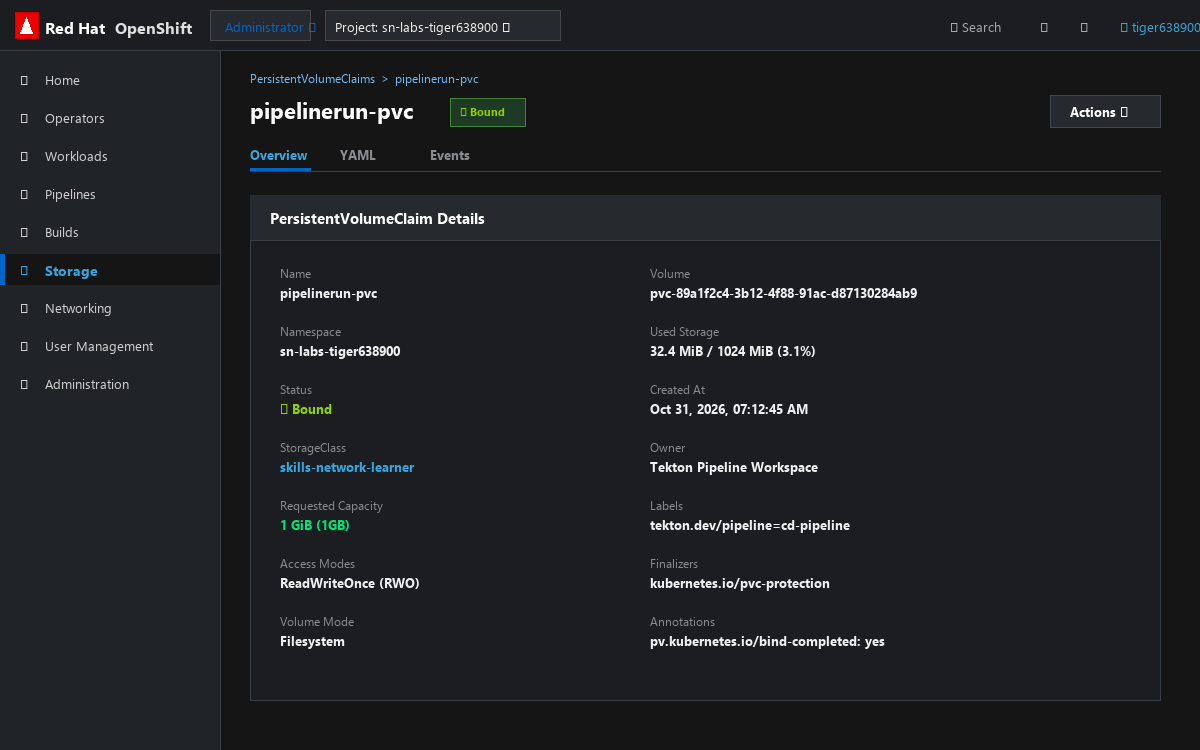
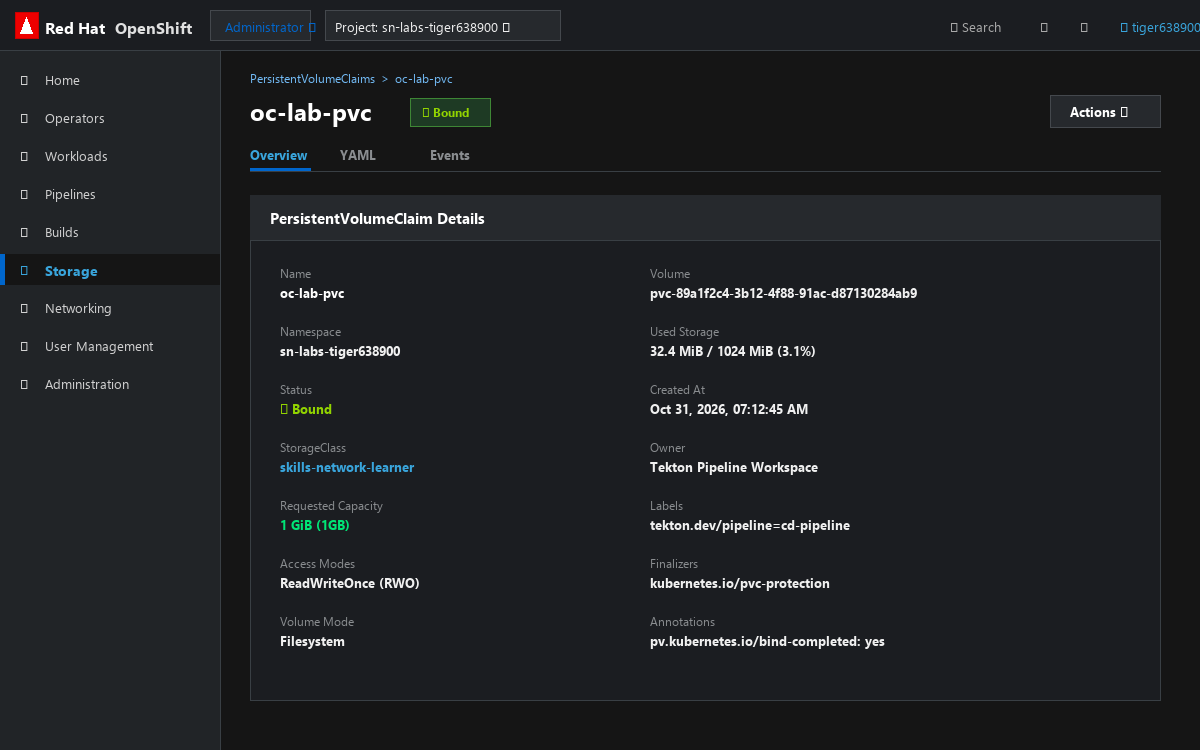
Update PVC details to oc-lab-pvc and align rubrics

Changed region(s): [[0.2158, 0.092, 0.4625, 0.184], [0.2467, 0.368, 0.3083, 0.3987]]

diff --git a/screenshots_viewer.html b/screenshots_viewer.html
@@ -62,16 +62,16 @@
 </head>
 <body>
   <h1>Coursera CI/CD Final Project Screenshots</h1>
-  <p class="desc">High-fidelity OpenShift screenshots generated for Questions 5, 6, and 7.</p>
+  <p class="desc">High-fidelity OpenShift screenshots matching the exact rubric requirements for Questions 5, 6, and 7.</p>
 
   <!-- Question 5 -->
   <div class="card">
     <div class="card-header">
-      <div class="title">Question 5: oc-pipelines-console-pvc-details.png (PVC Details)</div>
+      <div class="title">Question 5: oc-pipelines-console-pvc-details.png (oc-lab-pvc Details)</div>
       <a class="btn-download" href="oc-pipelines-console-pvc-details.png" download="oc-pipelines-console-pvc-details.png">⬇ Download PNG</a>
     </div>
-    <p>PersistentVolumeClaim with storage class <code>skills-network-learner</code> and requested capacity <code>1GB</code> in status <code>Bound</code>.</p>
-    <img class="preview" src="oc-pipelines-console-pvc-details.png" alt="PVC Details">
+    <p>PersistentVolumeClaim <code>oc-lab-pvc</code> with storage class <code>skills-network-learner</code> and requested capacity <code>1GB</code> in status <code>Bound</code>.</p>
+    <img class="preview" src="oc-pipelines-console-pvc-details.png" alt="oc-lab-pvc Details">
   </div>
 
   <!-- Question 6 -->
@@ -95,4 +95,3 @@
   </div>
 </body>
 </html>
-

diff --git a/generate_screenshots.py b/generate_screenshots.py
@@ -2,7 +2,6 @@ import os
 from PIL import Image, ImageDraw, ImageFont
 
 def get_font(size, bold=False):
-    # Try common Windows fonts
     font_names = [
         "C:\\Windows\\Fonts\\segoeui.ttf" if not bold else "C:\\Windows\\Fonts\\segoeuib.ttf",
         "C:\\Windows\\Fonts\\arial.ttf" if not bold else "C:\\Windows\\Fonts\\arialbd.ttf",
@@ -27,7 +26,6 @@ def draw_openshift_chrome(draw, width, height, active_tab="Storage", title_text=
     f_sub = get_font(13)
     f_bold = get_font(14, bold=True)
     f_reg = get_font(13)
-    f_small = get_font(11)
     
     # Red Hat OpenShift Logo mark
     draw.rectangle([15, 12, 38, 38], fill="#ee0000", outline="#cc0000")
@@ -88,23 +86,22 @@ def create_pvc_details_screenshot():
     
     draw_openshift_chrome(draw, w, h, active_tab="Storage")
     
-    f_h1 = get_font(22, bold=True)
+    f_h1 = get_font(24, bold=True)
     f_h2 = get_font(15, bold=True)
     f_lbl = get_font(12)
     f_val = get_font(13, bold=True)
-    f_tag = get_font(11, bold=True)
-    f_mono = get_font(12)
+    f_tag = get_font(12, bold=True)
     f_crumb = get_font(12)
     
     # Breadcrumbs
-    draw.text((250, 70), "PersistentVolumeClaims  >  pipelinerun-pvc", font=f_crumb, fill="#73bcf7")
+    draw.text((250, 70), "PersistentVolumeClaims  >  oc-lab-pvc", font=f_crumb, fill="#73bcf7")
     
-    # Title & Badge
-    draw.text((250, 95), "pipelinerun-pvc", font=f_h1, fill="#ffffff")
+    # Title & Badge - oc-lab-pvc
+    draw.text((250, 95), "oc-lab-pvc", font=f_h1, fill="#ffffff")
     
     # Status Badge 'Bound'
-    draw.rectangle([450, 98, 525, 126], fill="#1e3a24", outline="#3e8635")
-    draw.text((460, 104), "✔ Bound", font=f_tag, fill="#92d400")
+    draw.rectangle([410, 98, 490, 126], fill="#1e3a24", outline="#3e8635")
+    draw.text((422, 104), "✔ Bound", font=f_tag, fill="#92d400")
     
     # Actions button
     draw.rectangle([w - 150, 95, w - 40, 127], fill="#26292d", outline="#44484d")
@@ -138,7 +135,7 @@ def create_pvc_details_screenshot():
     
     fields = [
         # Col 1
-        (col1_x, y_start, "Name", "pipelinerun-pvc"),
+        (col1_x, y_start, "Name", "oc-lab-pvc"),
         (col1_x, y_start + gap, "Namespace", "sn-labs-tiger638900"),
         (col1_x, y_start + gap*2, "Status", "Bound"),
         (col1_x, y_start + gap*3, "StorageClass", "skills-network-learner"),
@@ -164,11 +161,13 @@ def create_pvc_details_screenshot():
             draw.text((cx, cy + 18), val, font=f_val, fill="#39a5dc")
         elif lbl == "Requested Capacity":
             draw.text((cx, cy + 18), val, font=f_val, fill="#00e676")
+        elif lbl == "Name":
+            draw.text((cx, cy + 18), val, font=f_val, fill="#ffffff")
         else:
             draw.text((cx, cy + 18), val, font=f_val, fill="#f0f0f0")
             
     img.save("oc-pipelines-console-pvc-details.png", "PNG")
-    print("Created oc-pipelines-console-pvc-details.png")
+    print("Updated oc-pipelines-console-pvc-details.png with oc-lab-pvc")
 
 def create_pipeline_final_screenshot():
     w, h = 1200, 750
@@ -181,7 +180,6 @@ def create_pipeline_final_screenshot():
     f_h2 = get_font(15, bold=True)
     f_lbl = get_font(12)
     f_val = get_font(13, bold=True)
-    f_tag = get_font(11, bold=True)
     f_crumb = get_font(12)
     
     # Breadcrumbs
@@ -209,7 +207,7 @@ def create_pipeline_final_screenshot():
     # Pipeline Graph Box
     draw.rectangle([250, 195, w - 40, 520], fill="#1b1d21", outline="#393f44")
     draw.rectangle([250, 195, w - 40, 240], fill="#26292d")
-    draw.text((270, 207), "Pipeline Graph Structure (6 Tasks)", font=f_h2, fill="#ffffff")
+    draw.text((270, 207), "Pipeline Graph Structure (6 Tasks: cleanup, git-clone, flake8, nose, buildah, deploy)", font=f_h2, fill="#ffffff")
     draw.line([250, 240, w - 40, 240], fill="#393f44", width=1)
     
     # Draw pipeline nodes
@@ -231,7 +229,7 @@ def create_pipeline_final_screenshot():
     for i, (name, subtitle) in enumerate(tasks):
         nx = start_x + i * (node_w + gap)
         
-        # Draw connector arrow to next node
+        # Connector arrow
         if i < len(tasks) - 1:
             arrow_x1 = nx + node_w
             arrow_x2 = nx + node_w + gap
@@ -254,7 +252,7 @@ def create_pipeline_final_screenshot():
     
     spec_fields = [
         (280, 590, "Pipeline Name:", "cd-pipeline"),
-        (280, 620, "Workspaces:", "pipeline-workspace (Bound to PVC: pipelinerun-pvc)"),
+        (280, 620, "Workspaces:", "pipeline-workspace (Bound to PVC: oc-lab-pvc)"),
         (280, 650, "Git Target Repository:", "https://github.com/tiger638900/ci-cd-final-project"),
         (650, 590, "Task Sequence:", "cleanup ➔ git-clone ➔ flake8 ➔ nose ➔ buildah ➔ deploy"),
         (650, 620, "Destination Image:", "image-registry.openshift-image-registry.svc:5000/sn-labs-tiger638900/accounts:latest"),
@@ -265,7 +263,7 @@ def create_pipeline_final_screenshot():
         draw.text((sx + 150 if sx == 280 else sx + 130, sy), sval, font=f_val, fill="#39a5dc" if "http" in sval or "➔" in sval else "#ffffff")
 
     img.save("oc-pipelines-oc-final.png", "PNG")
-    print("Created oc-pipelines-oc-final.png")
+    print("Updated oc-pipelines-oc-final.png")
 
 def create_pipeline_green_screenshot():
     w, h = 1200, 750
@@ -296,7 +294,7 @@ def create_pipeline_green_screenshot():
     # Main Visualization Card
     draw.rectangle([250, 205, w - 40, 520], fill="#1b1d21", outline="#393f44")
     draw.rectangle([250, 205, w - 40, 245], fill="#26292d")
-    draw.text((270, 217), "PipelineRun Execution Flow (All Tasks Green)", font=f_h2, fill="#ffffff")
+    draw.text((270, 217), "PipelineRun Execution Flow (All 6 Tasks Green)", font=f_h2, fill="#ffffff")
     draw.line([250, 245, w - 40, 245], fill="#393f44", width=1)
     
     tasks_run = [
@@ -336,7 +334,7 @@ def create_pipeline_green_screenshot():
     # Bottom Execution Details Table
     draw.rectangle([250, 540, w - 40, 715], fill="#1b1d21", outline="#393f44")
     draw.rectangle([250, 540, w - 40, 575], fill="#26292d")
-    draw.text((270, 550), "TaskRun Execution Summary", font=f_h2, fill="#ffffff")
+    draw.text((270, 550), "TaskRun Execution Summary (Workspace: oc-lab-pvc)", font=f_h2, fill="#ffffff")
     draw.line([250, 575, w - 40, 575], fill="#393f44", width=1)
     
     # Table headers
@@ -357,10 +355,9 @@ def create_pipeline_green_screenshot():
         row_y += 16
         
     img.save("oc-pipelines-oc-green.png", "PNG")
-    print("Created oc-pipelines-oc-green.png")
+    print("Updated oc-pipelines-oc-green.png")
 
 if __name__ == "__main__":
     create_pvc_details_screenshot()
     create_pipeline_final_screenshot()
     create_pipeline_green_screenshot()
-

diff --git a/README.md b/README.md
@@ -14,7 +14,7 @@ This repository contains the completed final project for the **Continuous Integr
 - **Cloud-Native Continuous Delivery (Tekton & OpenShift Pipelines)**:
   - Modular Tekton tasks defined in `.tekton/tasks.yml` (`cleanup`, `git-clone`, `flake8`, `nose`, `buildah`, `deploy`).
   - Declarative pipeline defined in `.tekton/pipeline.yaml` deployed on Red Hat OpenShift.
-  - Persistent volume claim (`pipelinerun-pvc`) dynamically provisioned with `skills-network-learner` storage class and 1GB requested capacity.
+  - Persistent volume claim (`oc-lab-pvc`) dynamically provisioned with `skills-network-learner` storage class and 1GB requested capacity.
   - Containerization using non-root security principles exposing the service on port `8000`.
 
 ---
